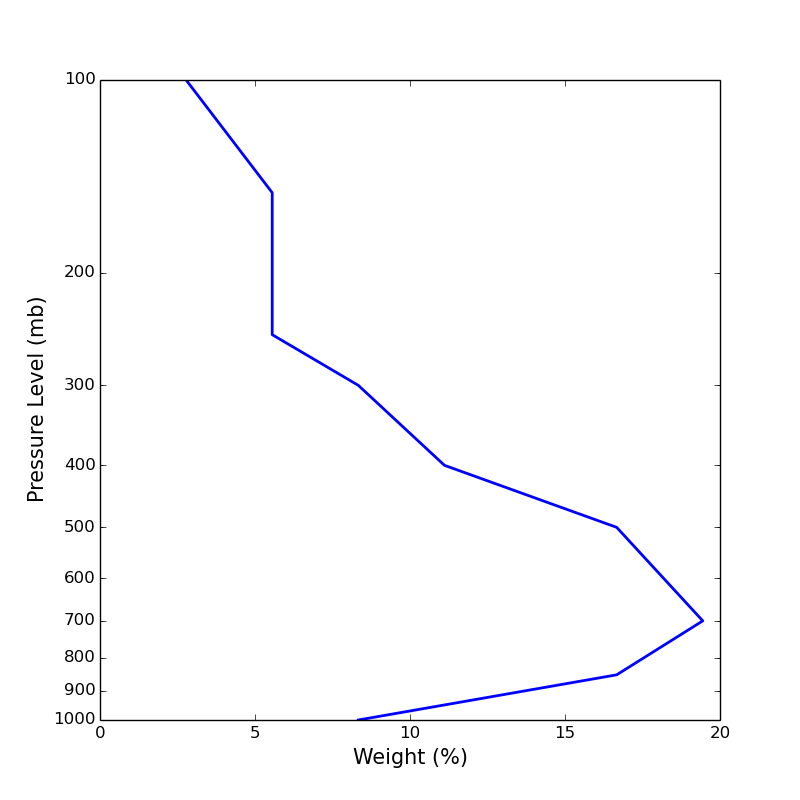
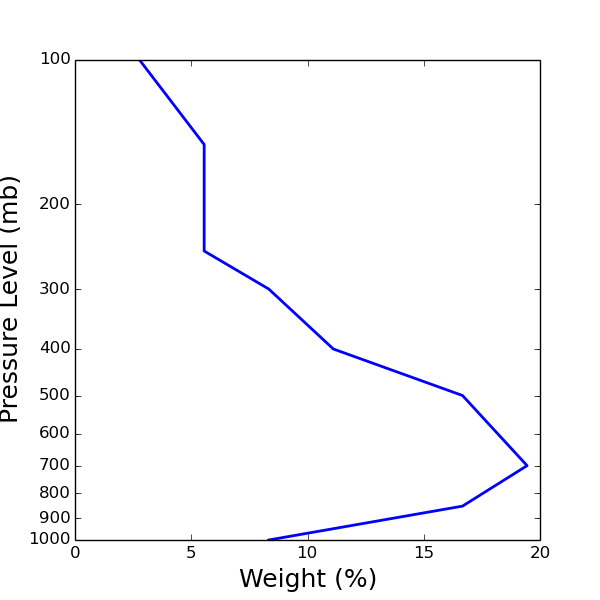
More figure updates

diff --git a/DLM_stats.py b/DLM_stats.py
@@ -1135,7 +1135,7 @@ weights = [(float(25)/float(900)) * 100, (float(50)/float(900)) * 100, (float(50
            (float(150)/float(900)) * 100, (float(175)/float(900)) * 100, (float(150)/float(900)) * 100,
            (float(75)/float(900)) * 100]
 fig, ax = plt.subplots(1, 1)
-fig.set_size_inches(8, 8)
+fig.set_size_inches(6, 6)
 ax.plot(weights, p_levels, linewidth = 2)
 ax.tick_params(labelsize = 12)
 ax.set_xlim(0, 20)
@@ -1143,8 +1143,8 @@ ax.set_ylim(1000, 100)
 ax.set_yscale('log')
 ax.set_yticks([100, 200, 300, 400, 500, 600, 700, 800, 900, 1000])
 ax.get_yaxis().set_major_formatter(mpl.ticker.ScalarFormatter())
-ax.set_ylabel('Pressure Level (mb)', fontsize = 15)
-ax.set_xlabel('Weight (%)', fontsize = 15)
+ax.set_ylabel('Pressure Level (mb)', fontsize = 18)
+ax.set_xlabel('Weight (%)', fontsize = 18)
 #ax.set_title('Neumann (1988) Deep Layer Mean Weighting Scheme', fontsize = 17)
 fig.savefig('Figures/DLM_weights.png')
 plt.show()
@@ -2146,23 +2146,24 @@ m = Basemap(llcrnrlon = -100, llcrnrlat = 23, urcrnrlon = -75, urcrnrlat = 37,
 m.drawcoastlines()
 m.drawcountries()
 m.drawmapboundary(fill_color='#99ffff')
-m.fillcontinents(color = "#f2f2f2", lake_color='#99ffff')
+m.fillcontinents(color = '#aedd77', lake_color='#99ffff')
 m.drawparallels(np.arange(20,50,10),labels = [1,1,0,0], fontsize = 15)
 m.drawmeridians(np.arange(-100,-60,10),labels = [0,0,0,1], fontsize = 15)
 
 i = 0
 for loc in locs:
-    if (loc[0] > -84 and loc[0] <= -79.5 and loc[1] <= 30.75):
-        colorcode = '#006700'
-    elif (loc[0] == -81.75 and loc[1] > 30.75) or (loc[0] == -81 and loc[1] > 30.75) or (loc[0] == -80.25 and loc[1] > 30.75) or \
-         (loc[0] == -79.5 and loc[1] > 30.75) or (loc[0] == -78.75 and loc[1] <= 33.75) or (loc[0] == -78 and loc[1] == 33):
-        colorcode = '#0000ff'
-    else:
-        colorcode = '#ff0000'
+    #if (loc[0] > -84 and loc[0] <= -79.5 and loc[1] <= 30.75):
+    #    colorcode = '#006700'
+    #elif (loc[0] == -81.75 and loc[1] > 30.75) or (loc[0] == -81 and loc[1] > 30.75) or (loc[0] == -80.25 and loc[1] > 30.75) or \
+    #     (loc[0] == -79.5 and loc[1] > 30.75) or (loc[0] == -78.75 and loc[1] <= 33.75) or (loc[0] == -78 and loc[1] == 33):
+    #    colorcode = '#0000ff'
+    #else:
+    #    colorcode = '#ff0000'
 
+    colorcode = '#ff0000'
     m.scatter(loc[0], loc[1], 8, marker = 'o', color = colorcode, latlon = True, zorder = 10)
 
-plt.title('Locations of Data Points')
+#plt.title('Locations of Data Points')
 plt.savefig('Figures/' + location_names[region][0]  + '/Wind_Speed_Measurement_Locations_' + location_names[region][0] + '.png')
 plt.savefig('Figures/Measurement_Locations/Wind_Speed_Measurement_Locations_' + location_names[region][0] + '.png')
 plt.show()
